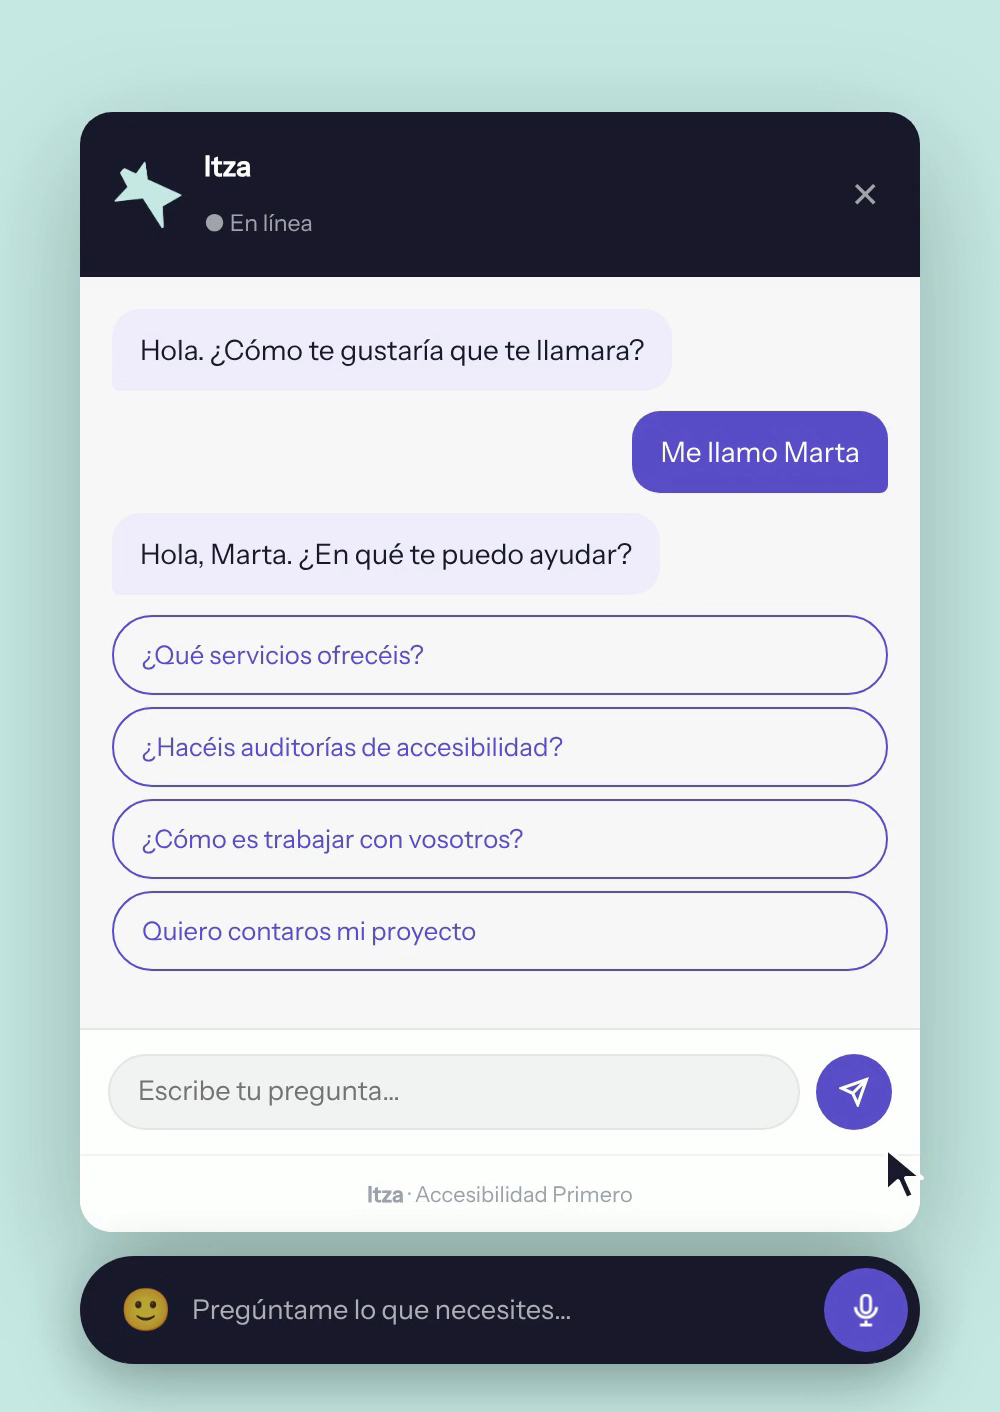
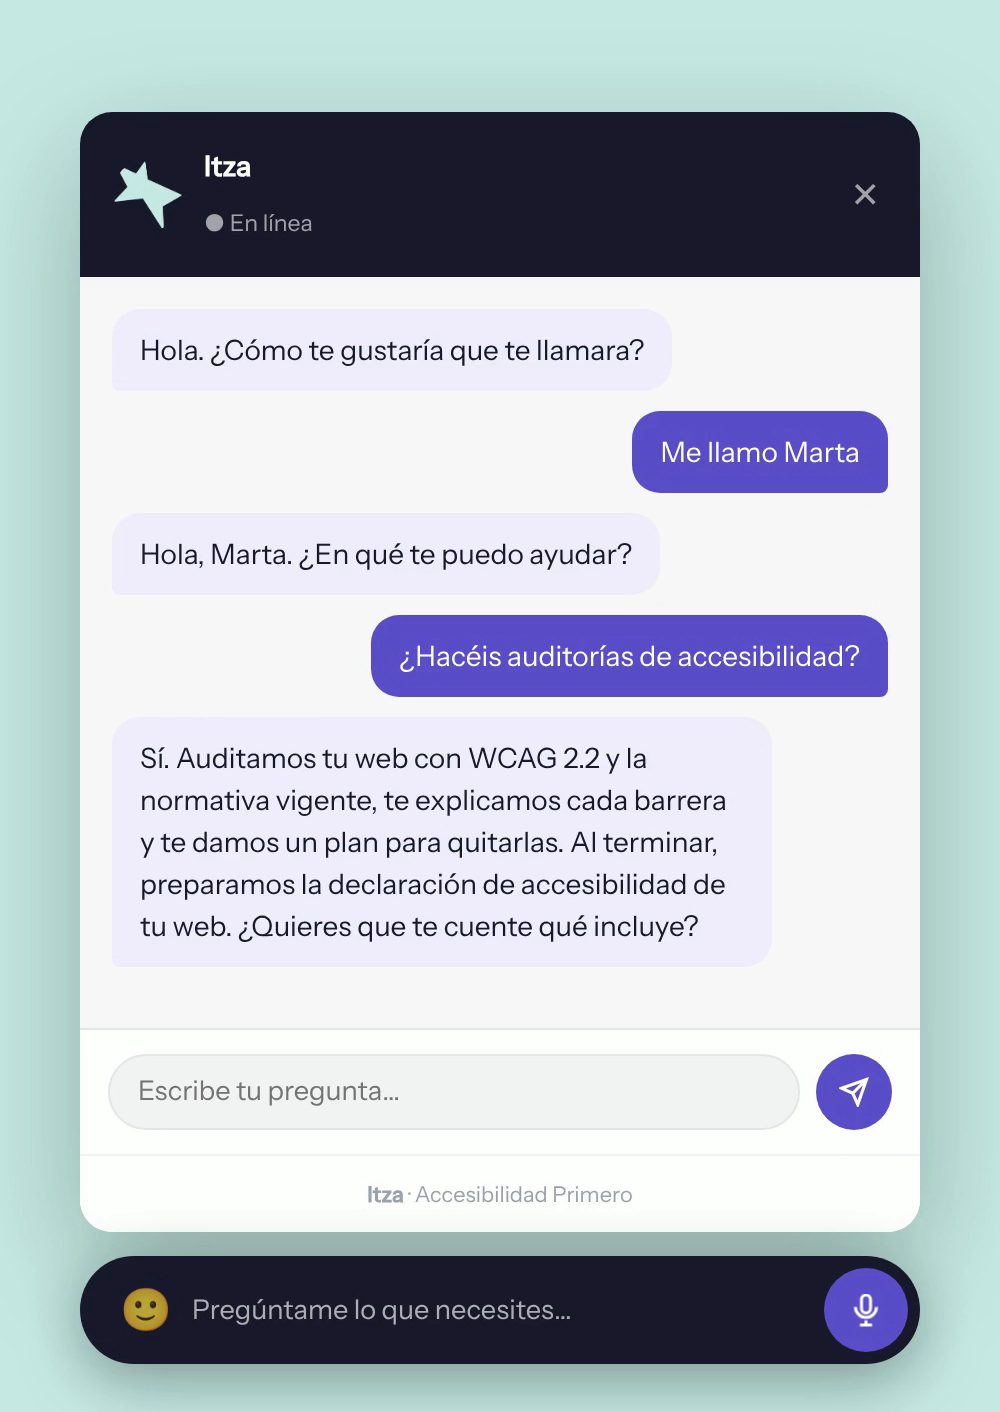
Revisión completa: póster de Itza, captura de A11y, coherencia y Foc i Cor
- Itza: pósteres del hero y de la Home con el final de la conversación (era
  el primer fotograma: con reducir movimiento se veía solo la barra).
- A11y Primero: «Marcar fallos» capturado sobre la Home actual.
- AP: los mismos tres servicios que Qué hacemos, con enlace; organizaciones
  con su proyecto (Pau Jordà, Izaskun Etxebarria).
- Fichas: Rol de Izaskun y columnas de Foc i Cor como el resto.
- Productos en el mismo orden en el listado y en «Ver el siguiente».
- Sobre la mesa, actualizado desde Mastodon.
- Contacto con el lápiz; Accesible Abstracts sin la captura del comité; el
  hero de Qué hacemos empieza y acaba en rosa.
- Foc i Cor: capturas nuevas de Esmorzars y Carta.

Claude-Session: https://claude.ai/code/session_01QtCBXvaV7Hhax1zN7yRFgV

Changed region(s): [[0.124, 0.4363, 0.899, 0.6856], [0.868, 0.8102, 0.93, 0.8414]]

diff --git a/src/content/proyectos/foc-i-cor.md b/src/content/proyectos/foc-i-cor.md
@@ -125,17 +125,19 @@ caso:
     # Original de Johnny (2338 × 1067), sin EXIF ni XMP, 23/10/2026.
     hero: ../../assets/proyectos/foc-i-cor/hero.jpg
     capturas:
-      - archivo: ../../assets/proyectos/foc-i-cor/almuerzos.jpg
+      # Capturas de focicor.es en catalán, de Johnny (05/11/2026).
+      - archivo: ../../assets/proyectos/foc-i-cor/esmorzars.jpg
         alt: >-
-          La página de los almuerzos de focicor.es: el titular “Almorzar de
-          verdad para tener energía durante todo el día”, qué incluye cada
-          almuerzo y, al lado, la foto de un bocadillo con queso fundido.
-      # Captura de focicor.es/la-carta/ del 23/10/2026, a 2x, pestaña Principals.
-      - archivo: ../../assets/proyectos/foc-i-cor/carta.png
+          La página de los esmorzars de focicor.es: el titular “Esmorzar de
+          veritat per a tindre energia tot el dia”, qué incluye cada esmorzar
+          y que se sirven hasta las 12:00; al lado, el vídeo de un bocadillo
+          con queso fundido, y debajo los primeros platos con sus alérgenos.
+      - archivo: ../../assets/proyectos/foc-i-cor/carta.jpg
         alt: >-
-          La carta de focicor.es: a la izquierda, las pestañas por categoría
-          con “Principals” activa; a la derecha, cinco platos con su precio y
-          los alérgenos de cada uno en etiquetas a la vista.
+          La carta de focicor.es: el titular “Cuina de proximitat i
+          temporada” con tres fotos de platos; debajo, las pestañas por
+          categoría con “Arrossos” activa y tres arroces con su precio por
+          persona y sus alérgenos en etiquetas a la vista.
     cierre:
       archivo: ../../assets/proyectos/foc-i-cor/equipo.jpg
       alt: >-

diff --git a/arte/LEEME.md b/arte/LEEME.md
@@ -176,5 +176,5 @@ y se comprueba el md5 contra el original (AGENTS.md §2, punto 7).
 | Archivo | Qué es | Origen |
 |---|---|---|
 | `envio.jpg` · `envio-movil.jpg` | El formulario de envío de ECI (2880 × 1800 y 780 × 1688) | Producción, público y vacío |
-| `hero.jpg` · `evaluacion.jpg` · `comite.jpg` | Abstracts de un revisor, evaluación doble ciego y panel del comité | La aplicación en local (SQLite) con datos de prueba inventados |
-| `hero-m.jpg` · `envio-m.jpg` · `evaluacion-m.jpg` · `comite-m.jpg` | Las mismas pantallas a 390 (@2x), para leerse en el móvil (04/11/2026) | `CapturaArte.astro` las sirve por debajo de 768 |
+| `hero.jpg` · `evaluacion.jpg` | Abstracts de un revisor y evaluación doble ciego (el panel del comité salió el 05/11/2026) | La aplicación en local (SQLite) con datos de prueba inventados |
+| `hero-m.jpg` · `envio-m.jpg` · `evaluacion-m.jpg` | Las mismas pantallas a 390 (@2x), para leerse en el móvil (04/11/2026) | `CapturaArte.astro` las sirve por debajo de 768 |
